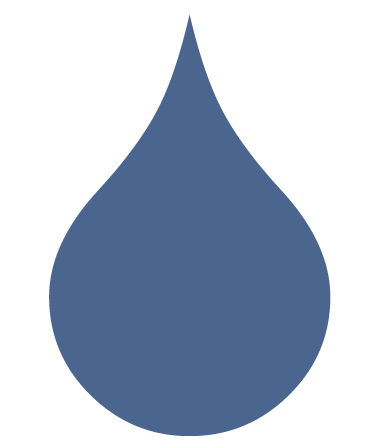
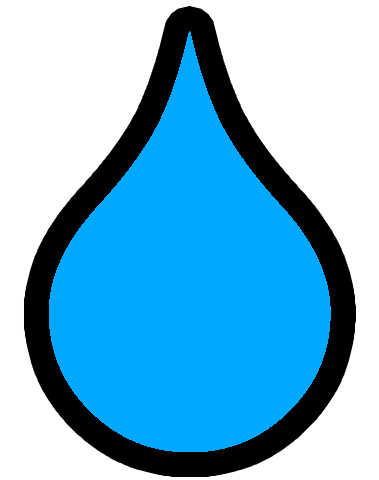
fixed issue with label update not happening on main thread and changed the water image.

diff --git a/Yonder/ShowViewController.swift b/Yonder/ShowViewController.swift
@@ -10,7 +10,6 @@ import UIKit
 
 class ShowViewController: UIViewController {
 
-    
     @IBOutlet weak var textLabel: UILabel!
     
     override func viewDidLoad() {
@@ -60,8 +59,13 @@ class ShowViewController: UIViewController {
                     }
                     if (jsonResult[counter]["water_source"] != nil) {
                         let waterSource = jsonResult[counter]["water_source"] as! String
-                        print("The nearest \(waterSource) is \(nearestDistance) miles away due \(nearestDirection).")
-                        self.textLabel.text = "The nearest \(waterSource) is \(nearestDistance) miles away due \(nearestDirection)."
+//                        print("The nearest \(waterSource) is \(nearestDistance) miles away due \(nearestDirection).")
+                        
+                        dispatch_async(dispatch_get_main_queue(), { () -> Void in
+                            self.textLabel.text = "The nearest water source is a \(waterSource) and is \(nearestDistance) miles away due \(nearestDirection)."
+                        })
+                    
+                    
                     }
                 } catch {print("JSON Serialization Failed!")}
             }
